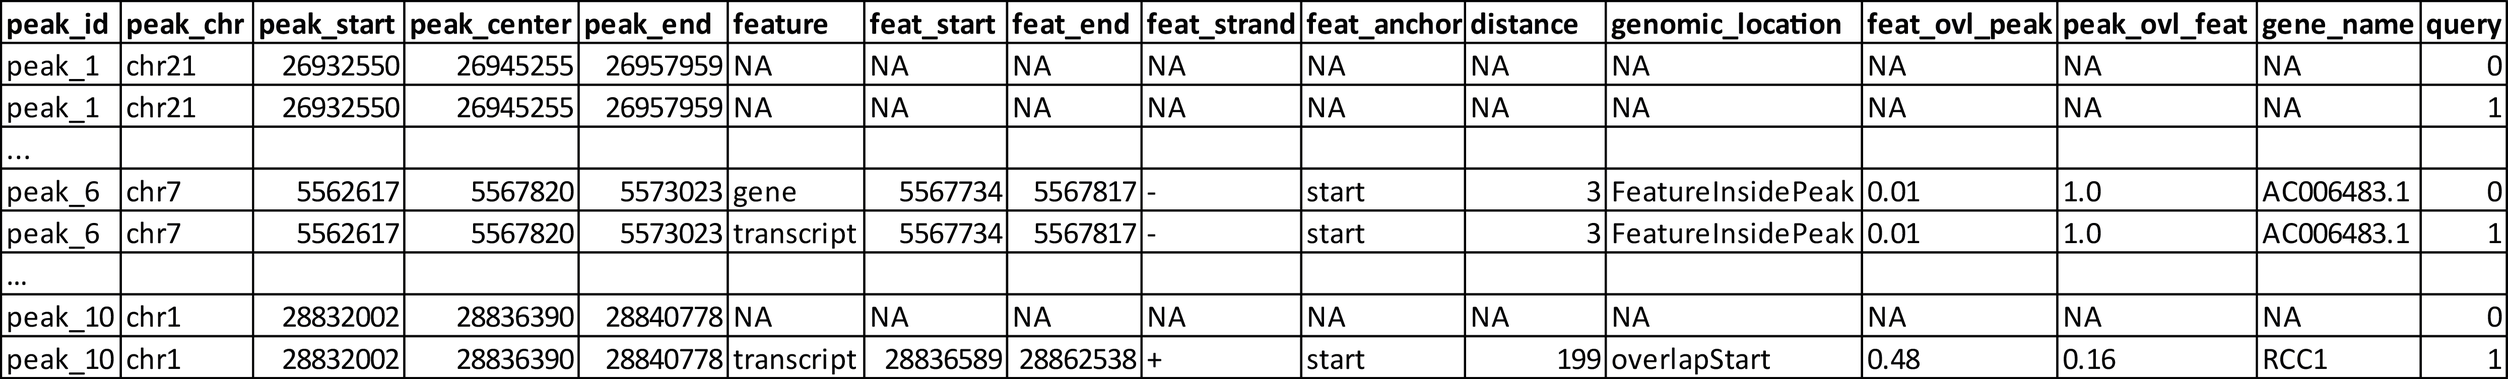
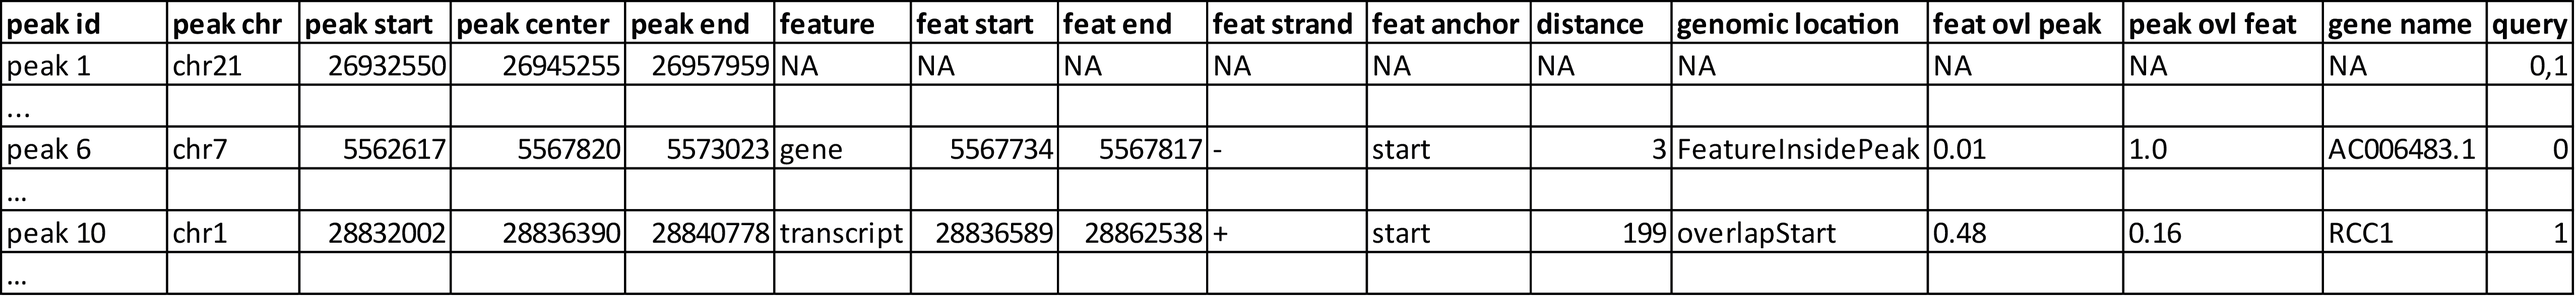
modified tables for examples

Changed region(s): [[0.0, 0.0, 1.0, 1.0]]

diff --git a/docs/uropa-example.md b/docs/uropa-example.md
@@ -18,7 +18,7 @@ Source files can be found here :[gtf and bed source files](http://uropa.readthed
 			{"feature":"transcript", "distance":1000 }], 
  "priority" : "False",
  "gtf":"Homo_sapiens.GRCh37.75_chr.gtf" ,
- "bed":"ENCFF001VFA_GM12878_POLR2A_narrowPeaks.bed"
+ "bed":"ENCFF001VFA.bed"
 }
 ```
 
@@ -179,13 +179,9 @@ The query is the following:
 
 The peak displayed in Figure 3 would be annotated for both genes as shown in the table below:
 
+![table7](img/ex1_table-07.png )
 
-| peak_id  | p_chr | p_start  | p_center  | p_end  | feature | feat_start | feat_end | feat_strand | distance | feat_anchor | genomic_location | feat_ovl_peak | peak_ovl_feat | gene_name | query | 
-|:----------|:------|:---------|:----------|:---------|:--------|:-----------|:---------|:---------|:----------- |:----------|:-----------------|:--------------|:---------|:----------|:---------|
-|peak_21044 | chr1  | 1406116  | 1406250.5 | 1406385  | gene    |   1407143  |  1433228 |     +    |    892      | start     |     upstream	    |      0.0      |    0.0   |	ATAD3B |    0     |
-|peak_21044 | chr1  | 1406116  | 1406250.5 | 1406385  | gene    |   1385069  |  1405538 |     +    |    712      | end	     |    downstream    |	   0.0      |    0.0   |	ATAD3C |    0     |
-
-[Table 7 : AllHits_table for an H3K4me1-peak annotated with two genes of different directions relative to the peak, according to the above config file ]
+[Table 7 : AllHits for an H3K4me1-peak annotated with two genes of different directions relative to the peak, according to the above config file ]
 
 
 Due to the fact that no 'feature.anchor' was defined, the distance shown in the table is measured from the ` min(|[start,center,end] - peak.center|) `, 
@@ -201,10 +197,7 @@ But, let's see the differences when the 'direction' key is set. If only 'upstrea
 
 In this case the peak will only be annotated for *ATAD3B* ,as shown in Table 8, because it is located 'upstream' to it, so *ATAD3C*  it is not a valid feature, even though the distance is closer. 
 
-
-| peak_id   | p_chr | p_start  | p_center  | p_end    | feature | feat_start | feat_end | feat_strand | distance | feat_anchor|genomic_location | feat_ovl_peak | peak_ovl_feat | gene_name | query | 
-|:----------|:------|:---------|:----------|:---------|:--------|:-----------|:---------|:---------|:----------- |:----------|:-----------------|:--------------|:---------|:----------|:---------|
-|peak_21044 | chr1  | 1406116  | 1406250.5 | 1406385  | gene    |   1407143  |  1433228 |     +    |    892      | start     |     upstream	    |      0.0      |    0.0   |	ATAD3B |    0     |
+![table8](img/ex1_table-08.png )
 
 [Table 8: AllHits_table for an H3K4me1-peak annotated with an upstream gene are required by the query ]
 
@@ -245,11 +238,7 @@ The following configuration allows to search peaks internal to feature region an
 
 The output will be for "peak_13":   
  
-| p_chr   | p_start  | p_center | p_end    |feature |feat_start|feat_end |feat_strand|distance| feat_anchor  | genomic_location  |feat_ovl_peak | peak_ovl_feat |gene_name |query| 
-|:--------|:---------|:---------|:---------|:-------|:---------|:--------|:--------|:---------|:----------|:----------------- | :------------|:------------- |:---------|:----|
-| chr6    | 27857165 | 27860401 | 27863637 | gene   | 27861203 | 27861669|   +     | 802      | start     |FeatureInsidePeak  |   0.07       |   1.0 	     | HIST1H2BO | 0  |
-| chr6    | 27857165 | 27860401 | 27863637 | gene   | 27858093 | 27860884|   -     | 483      | start     |FeatureInsidePeak  |   0.43       |   1.0 	     | HIST1H3J  | 0  |
-| chr6    | 27857165 | 27860401 | 27863637 | gene   | 27860477 | 27860963|   -     | 76       | end       |FeatureInsidePeak  |   0.08       |   1.0 	     | HIST1H2AM | 0  |
+![table9](img/ex1_table-09.png )
 
 [ Table 9: AllHits_table internal feature example].
 
@@ -265,13 +254,9 @@ UROPA detects the internal-to-a-peak features or the internal-to-a-feature peaks
 In the contrary case, where the key 'internals' is not activated ("False") and no feature.anchor is chosen,          
 the peak would only be annotated with the two genes *HIST1H3J*  and *HIST1H2AM*  ,found in distance less than 500 bp(Table 8). 
 
+![table10](img/ex1_table-10.png )
 
-| p_chr   | p_start  | p_center | p_end    |feature |feat_start|feat_end |feat_strand|distance| feat_anchor | genomic_location  |feat_ovl_peak | peak_ovl_feat |gene_name  |query| 
-|:--------|:---------|:---------|:---------|:-------|:---------|:--------|:--------|:---------|:----------|:----------------- | :------------|:------------- |:----------|:----|
-| chr6    | 27857165 | 27860401 | 27863637 | gene   | 27858093 | 27860884 |   -    |   483    | start     | FeatureInsidePeak |    0.43      |     1.0       | HIST1H3J  | 0   |
-| chr6	  | 27857165 | 27860401 | 27863637 | gene   | 27860477 | 27860963 |   -	   |   76     | end       | FeatureInsidePeak |    0.08      |     1.0	     | HIST1H2AM | 0   |
-
-[ Table 9 : AllHits_table with 'internals': 'False' for the peak_13 of polR2A ]
+[ Table 10 : AllHits_table with 'internals': 'False' for the peak_13 of polR2A ]
 
 
 These examples make overally evident, that depending on the biological relevance, it can be very useful to utilize more flexible keys and allow better control of results. 
@@ -297,13 +282,9 @@ Even when a custom gtf is given, it is formatted in a first step to fit the stan
 They can then be used in the config file of UROPA as filtering keys. 
 
 
-|peak_id | p_chr |p_start | p_center | p_end | feature |feat_start |feat_end | feat_strand |distance|feat_anchor| genomic_location |feat_ovl_peak| peak_ovl_feat |gene_biotype |gene_name|query| 
-|:-------|:-------|:---------|:------------|:----------|:-------|:----------|:---------|:-------|:-------|:---------|:-------------|:----|:------|:---------------|:------|:------|
-| peak_2  | chr5  |149776755 | 149785224.5 | 149793694 | gene   |149781200  |149792492 | - | 1621 | center | FeatureInsidePeak| 0.67| 1.0 | protein_coding | CD74  |   0  | 
-| peak_3  |chr6   |	396914	 | 405319      | 413724    | gene	| 391739    | 411447   | + | 3726 | center | overlapEnd	     | 0.86	| 0.74| protein_coding | IRF4  |   0  |
-|  ...    |       |          |             |           |        |           |          |   |      |        |                 |      |     |                |       |      |
+![table11](img/ex1_table-11.png )
 
-[Table 10 :'AllHits_table' for two peaks, as given by the query with 'attribute.value' = 'protein_coding'  ]
+[Table 11 :'AllHits_table' for two peaks, as given by the query with 'attribute.value' = 'protein_coding'  ]
 
 As shown in the results above(Table 10), the keys presented allow a more flexible annotation and a better specification of results at the same time. 
 
